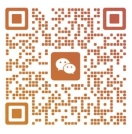
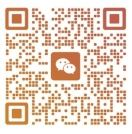
feat(home-v4): AI智能体白描边+转化按钮白字；poster 1200w 67K/qr 6K 提速；H5 触达面修复(轮播点38px命中区/箭头40px/折叠链padding)；发布 prod

diff --git a/beevast-home-v4/index.html b/beevast-home-v4/index.html
@@ -18,7 +18,7 @@
 <meta name="twitter:description" content="私有化部署的 AI 数字员工，数据不出企业，30 天免费 POC。">
 <meta name="twitter:image" content="https://beevast.com/assets/hero-poster.jpg">
 <link rel="canonical" href="https://beevast.com/">
-<link rel="preload" as="image" href="assets/hero-poster.jpg?v=20260822e" fetchpriority="high" media="(min-width:861px)">
+<link rel="preload" as="image" href="assets/hero-poster.jpg?v=20260823a" fetchpriority="high" media="(min-width:861px)">
 <link rel="icon" type="image/png" href="assets/logo-fav.png">
 <link rel="apple-touch-icon" href="assets/apple-touch-icon.png">
 <meta name="theme-color" content="#0B1220">
@@ -154,7 +154,7 @@ section[id]{scroll-margin-top:96px}
 .hero-badge .dot{width:7px;height:7px;border-radius:50%;background:var(--primary);box-shadow:0 0 0 4px rgba(234,162,48,0.2),0 0 12px var(--primary);animation:pulse 2s infinite}
 @keyframes pulse{0%,100%{opacity:1}50%{opacity:.5}}
 .hero h1{font-family:'Noto Serif SC','Noto Sans SC',serif;font-size:clamp(30px,4vw,46px);font-weight:900;line-height:1.16;letter-spacing:-1px;margin-bottom:22px}
-.hero h1 .accent{background:var(--grad-cyber);-webkit-background-clip:text;-webkit-text-fill-color:transparent;background-clip:text;position:relative;display:inline-block;filter:drop-shadow(0 0 30px rgba(234,162,48,0.4))}
+.hero h1 .accent{background:var(--grad-cyber);-webkit-background-clip:text;-webkit-text-fill-color:transparent;background-clip:text;-webkit-text-stroke:1px rgba(255,255,255,.55);paint-order:stroke fill;position:relative;display:inline-block;filter:drop-shadow(0 0 30px rgba(234,162,48,0.4))}
 .hero-video{position:relative;z-index:1}
 .hero-video-frame{position:relative;border-radius:14px;overflow:hidden;border:1px solid rgba(255,255,255,0.14);background:var(--navy);box-shadow:0 30px 80px rgba(0,0,0,0.5),0 0 0 1px rgba(234,162,48,0.16),0 0 64px rgba(234,162,48,0.12)}
 .hero-video{position:relative;z-index:1;margin-top:18px}
@@ -162,8 +162,8 @@ section[id]{scroll-margin-top:96px}
 .hero-video-cap{text-align:center;font-size:var(--fs-xs);color:rgba(255,255,255,0.7);margin-top:16px;letter-spacing:0.3px}
 .hero-sub{font-size:17px;font-weight:600;color:rgba(255,255,255,0.92);line-height:1.7;margin-bottom:24px;max-width:520px}
 .hero-actions{display:flex;gap:14px;flex-wrap:wrap;margin-bottom:8px}
-.hero-actions .ha-primary{padding:14px 32px;border-radius:12px;background:var(--primary);color:#1C1A17;font-weight:800;font-size:var(--fs-base);box-shadow:0 8px 28px rgba(234,162,48,0.35);transition:transform .2s,box-shadow .2s,background .2s}
-.hero-actions .ha-primary:hover{color:#1C1A17;background:var(--primary-2);transform:translateY(-2px);box-shadow:0 12px 36px rgba(234,162,48,0.45)}
+.hero-actions .ha-primary{padding:14px 32px;border-radius:12px;background:var(--primary);color:#fff;font-weight:800;font-size:var(--fs-base);box-shadow:0 8px 28px rgba(234,162,48,0.35);transition:transform .2s,box-shadow .2s,background .2s}
+.hero-actions .ha-primary:hover{color:#fff;background:var(--primary-2);transform:translateY(-2px);box-shadow:0 12px 36px rgba(234,162,48,0.45)}
 .hero-actions .ha-ghost{padding:14px 32px;border-radius:12px;border:1px solid rgba(255,255,255,0.22);color:#fff;font-weight:700;font-size:var(--fs-base);transition:background .2s,border-color .2s}
 .hero-actions .ha-ghost:hover{color:#fff;background:rgba(255,255,255,0.06);border-color:rgba(255,255,255,0.4)}
 .hero-stats{display:grid;grid-template-columns:repeat(4,1fr);gap:1px;background:rgba(255,255,255,0.12);border:1px solid rgba(255,255,255,0.14);border-radius:var(--radius);overflow:hidden;max-width:1200px;margin:44px auto 0;position:relative;z-index:1;box-shadow:0 18px 50px rgba(0,0,0,0.25)}
@@ -352,18 +352,18 @@ a,button{touch-action:manipulation}
 /* ===== sticky mobile CTA ===== */
 .sticky-cta{position:fixed;bottom:0;left:0;right:0;z-index:90;display:none;padding:10px var(--pad-x);background:rgba(255,255,255,0.94);backdrop-filter:blur(16px);border-top:1px solid var(--border-glow);box-shadow:0 -8px 24px rgba(0,0,0,0.06)}
 .sticky-cta a{flex:1;text-align:center;padding:13px;border-radius:10px;font-size:var(--fs-sm);font-weight:800}
-.sticky-cta .sc-primary{background:var(--primary);color:#1C1A17}
+.sticky-cta .sc-primary{background:var(--primary);color:#fff}
 .sticky-cta .sc-ghost{background:var(--bg-2);color:var(--text);border:1px solid var(--border-strong)}
 @media(max-width:640px){.sticky-cta{display:flex;gap:10px}body{padding-bottom:72px}}
 
 /* ===== nav CTA / 内联 CTA / 表单 modal / lightbox / 岗位折叠 / 能力一行 / 案例轮播 ===== */
-.nav-cta{margin-left:18px;padding:9px 20px;border-radius:10px;background:var(--primary);color:#1C1A17;font-weight:800;font-size:var(--fs-sm);flex:none;transition:background .2s}
+.nav-cta{margin-left:18px;padding:9px 20px;border-radius:10px;background:var(--primary);color:#fff;font-weight:800;font-size:var(--fs-sm);flex:none;transition:background .2s}
 .nav-cta:hover{background:var(--primary-2)}
 .cta-inline{display:flex;align-items:center;justify-content:flex-end;gap:10px;flex-wrap:wrap;margin-top:12px;font-size:15px;color:var(--text-2);text-align:right}
 .cta-lnk{font-weight:800;color:var(--primary-2);border-bottom:1px solid rgba(234,162,48,.5);padding-bottom:1px;transition:color .2s,border-color .2s;white-space:nowrap}
 .cta-lnk:hover{color:var(--primary);border-color:var(--primary)}
 .sc-grid .sc-card{position:relative}
-.sc-more-link{position:absolute;top:-25px;right:2px;font-size:12.5px;font-weight:700;color:var(--primary-2);border-bottom:1px solid rgba(234,162,48,.5);padding-bottom:1px;cursor:pointer;z-index:2}
+.sc-more-link{position:absolute;top:-27px;right:0;font-size:12.5px;font-weight:700;color:var(--primary-2);border-bottom:1px solid rgba(234,162,48,.5);padding:4px 2px 1px;cursor:pointer;z-index:2}
 .sc-more-link:hover{color:var(--primary)}
 .sc-grid .sc-card.sc-fold{display:none}
 .sc-grid.open .sc-card.sc-fold{display:flex}
@@ -385,9 +385,10 @@ a,button{touch-action:manipulation}
 .case-rail .case-study{flex:0 0 100%;scroll-snap-align:center}
 .case-nav{display:flex;align-items:center;justify-content:center;gap:14px;margin-top:16px}
 .case-dots{display:flex;gap:8px}
-.case-dot{width:9px;height:9px;border-radius:99px;border:none;background:rgba(28,26,23,.15);cursor:pointer;padding:0;transition:width .25s,background .25s}
-.case-dot.on{width:26px;background:var(--primary)}
-.case-arw{width:36px;height:36px;border-radius:99px;border:1px solid var(--border-strong);background:#fff;cursor:pointer;font-size:16px;color:var(--text);line-height:1}
+.case-dot{width:38px;height:38px;border-radius:99px;border:none;background:transparent;padding:14px 6px;background-clip:content-box;cursor:pointer;transition:background .25s}
+.case-dot::after{content:'';display:block;width:100%;height:9px;border-radius:99px;background:rgba(28,26,23,.18)}
+.case-dot.on::after{background:var(--primary)}
+.case-arw{width:40px;height:40px;border-radius:99px;border:1px solid var(--border-strong);background:#fff;cursor:pointer;font-size:16px;color:var(--text);line-height:1}
 .case-arw:hover{border-color:var(--border-glow);color:var(--primary-2)}
 .cap-steps{display:flex;justify-content:center;align-items:center;gap:10px;flex-wrap:wrap;margin:2px 0 18px;font-family:'JetBrains Mono','Inter',monospace;font-size:12.5px;font-weight:700;color:var(--text-2)}
 .cap-steps b{color:var(--primary-2)}
@@ -411,7 +412,7 @@ a,button{touch-action:manipulation}
 .modal-form label{display:block;font-size:12px;font-weight:700;color:var(--text-2);margin-bottom:5px}
 .modal-form input,.modal-form select,.modal-form textarea{width:100%;padding:11px 12px;border:1px solid var(--border-strong);border-radius:9px;font-size:14px;font-family:inherit;color:var(--text);background:#fff}
 .modal-form input:focus,.modal-form select:focus,.modal-form textarea:focus{outline:2px solid var(--primary);outline-offset:0;border-color:var(--primary)}
-.mf-submit{width:100%;margin-top:6px;padding:13px;border:none;border-radius:10px;background:var(--primary);color:#1C1A17;font-weight:800;font-size:15px;cursor:pointer}
+.mf-submit{width:100%;margin-top:6px;padding:13px;border:none;border-radius:10px;background:var(--primary);color:#fff;font-weight:800;font-size:15px;cursor:pointer}
 .mf-submit:hover{background:var(--primary-2)}
 .mf-note{margin:10px 0 0;font-size:12px;color:var(--text-3);text-align:center}
 .mf-ok{display:none;text-align:center;padding:34px 10px}
@@ -465,7 +466,7 @@ a,button{touch-action:manipulation}
     </div>
     <div class="hero-video reveal in">
       <div class="hero-video-frame">
-        <img src="assets/hero-poster.jpg?v=20260822e" alt="群蜂云枢企业画报：AI 工作台与管理控制台实景" width="1200" height="750" decoding="async" fetchpriority="high">
+        <img src="assets/hero-poster.jpg?v=20260823a" alt="群蜂云枢企业画报：AI 工作台与管理控制台实景" width="1200" height="750" decoding="async" fetchpriority="high">
       </div>
     </div>
   </div>
